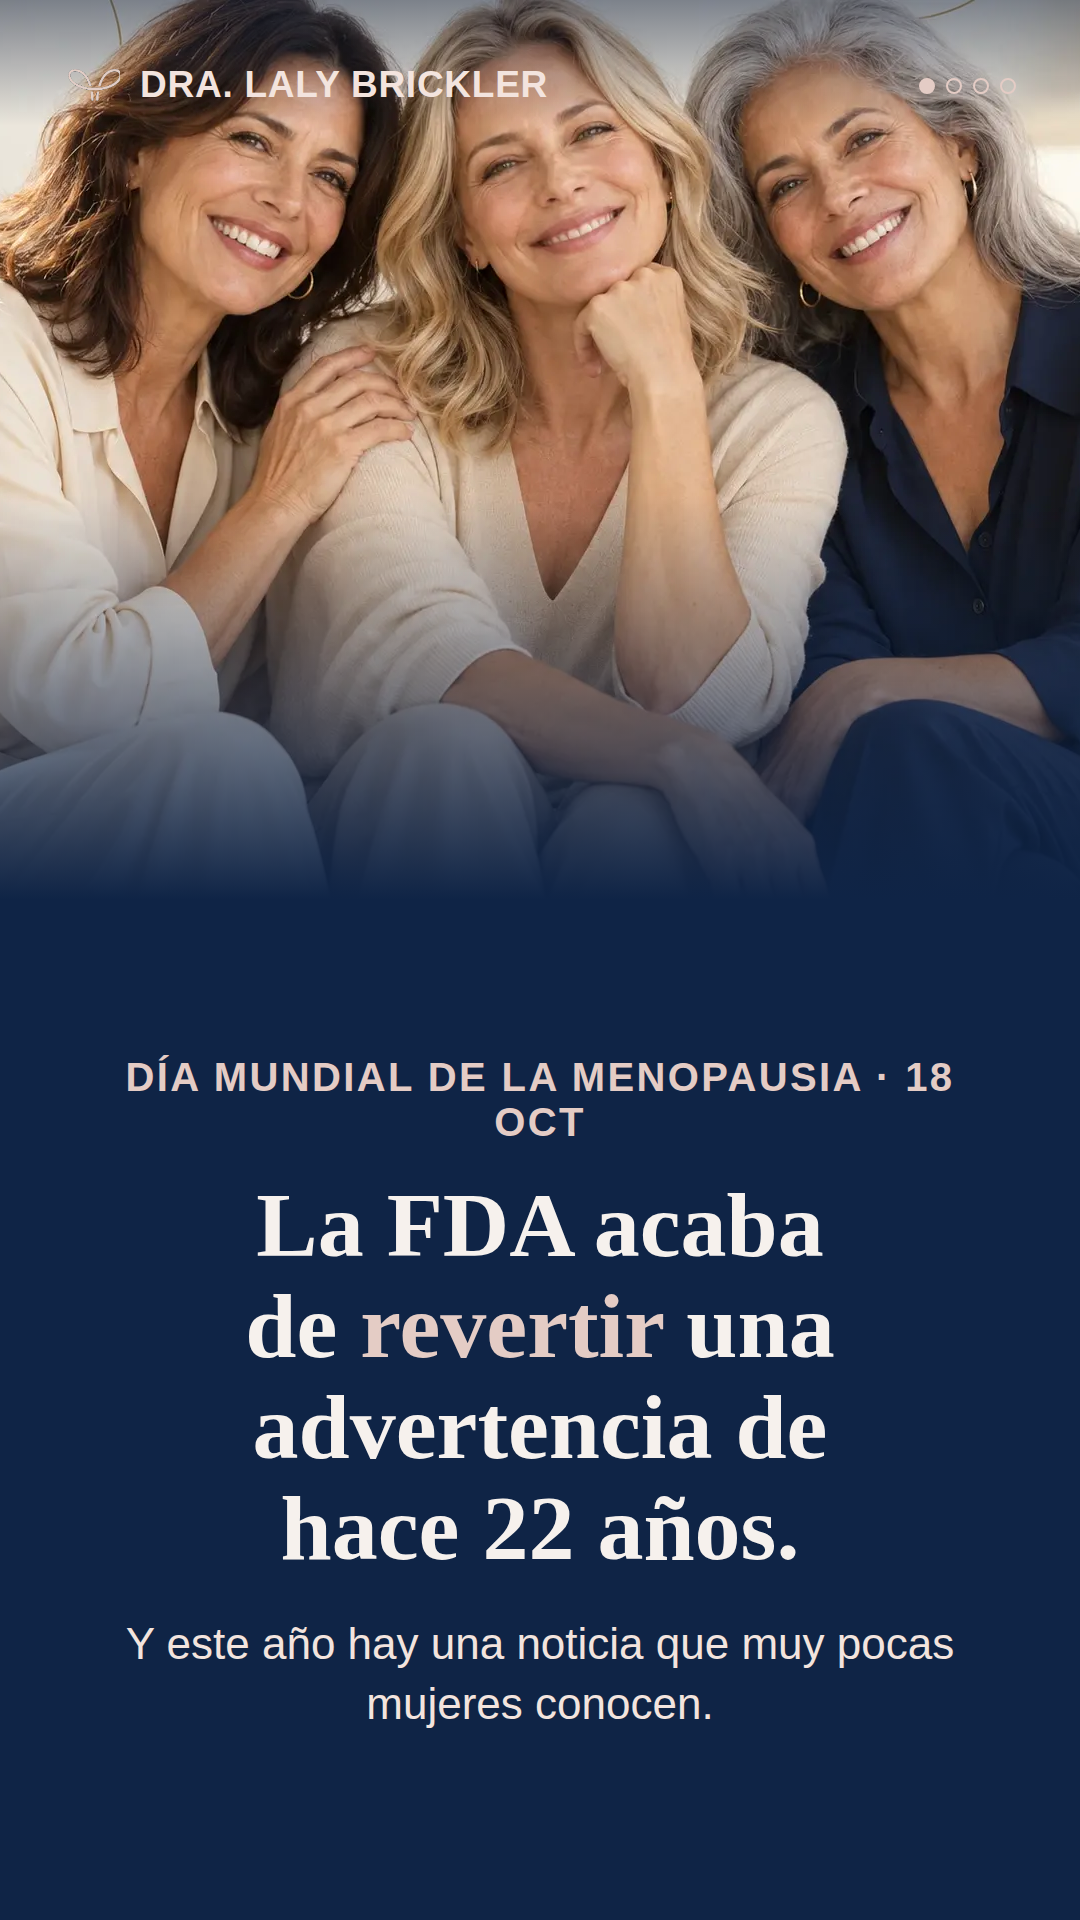
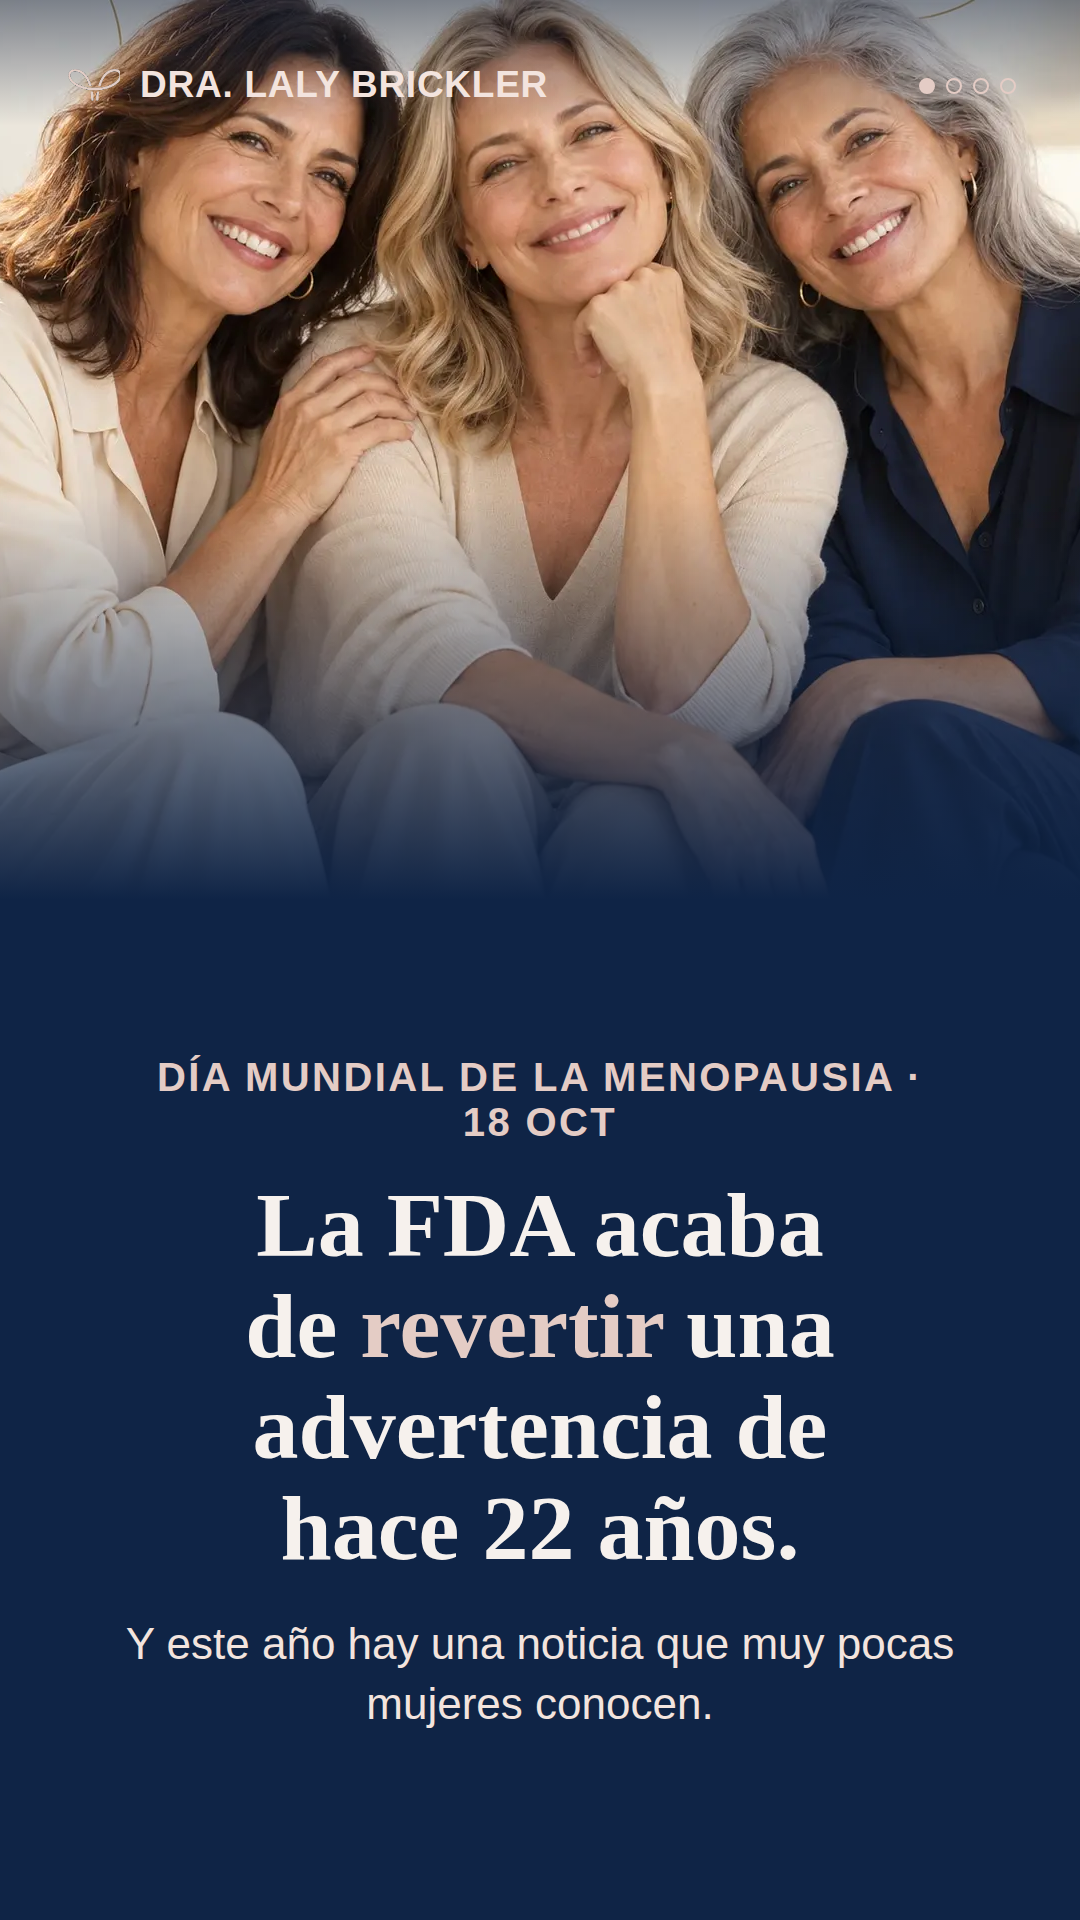
Keep "18 OCT" together on one line in slide 1 eyebrow
Claude-Session: https://claude.ai/code/session_01LtTLwZrPZbyahK5aD18j7d

Changed region(s): [[0.1222, 0.5312, 0.825, 0.5938], [0.8556, 0.5312, 0.8861, 0.5625]]

diff --git a/assets/export-menopausia/slide-1-hook.html b/assets/export-menopausia/slide-1-hook.html
@@ -28,7 +28,7 @@ html,body{width:1080px;height:1920px;overflow:hidden;background:#0F2446;font-fam
   <div class="brand"><img src="icon.png" alt=""><span>DRA. LALY BRICKLER</span></div>
   <div class="dots"><span class="dot on"></span><span class="dot"></span><span class="dot"></span><span class="dot"></span></div>
   <div class="body">
-    <span class="eyebrow">Día Mundial de la Menopausia · 18 oct</span>
+    <span class="eyebrow">Día Mundial de la Menopausia · 18&nbsp;oct</span>
     <p class="headline">La FDA acaba de <em>revertir</em> una advertencia de hace 22 años.</p>
     <p class="sub">Y este año hay una noticia que muy pocas mujeres conocen.</p>
   </div>
